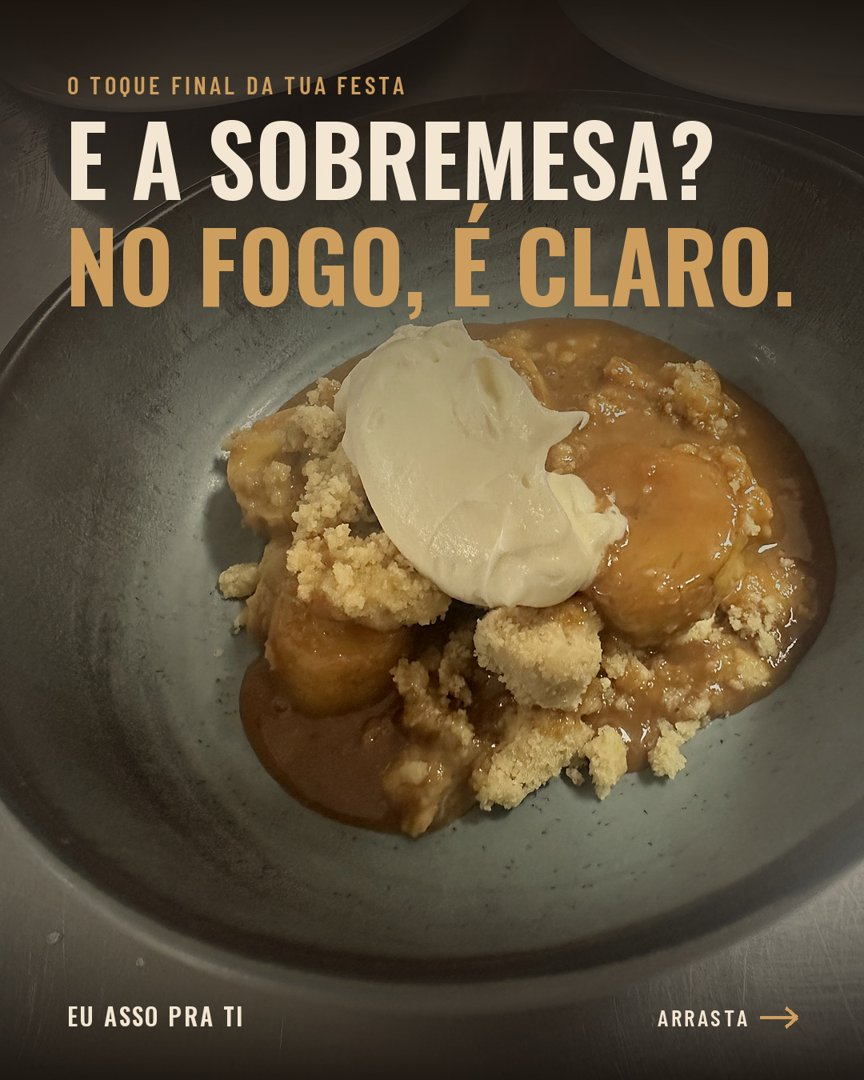
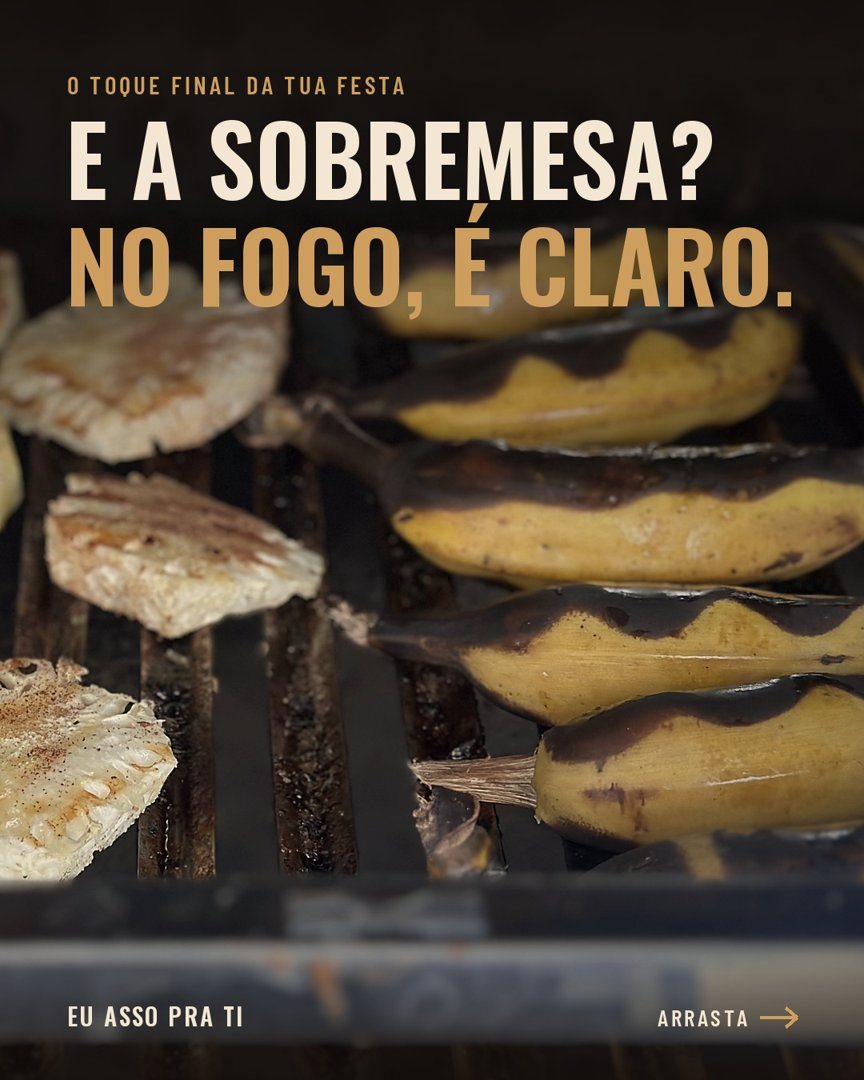
Post 08: capa com a fruta na brasa

diff --git a/calendario/index.html b/calendario/index.html
@@ -11,7 +11,7 @@
 --display:"Oswald","Arial Narrow",sans-serif;--label:"Barlow Condensed","Arial Narrow",sans-serif;--text:"Barlow",system-ui,sans-serif;color-scheme:dark}
 *{box-sizing:border-box}
 body{margin:0;background:var(--bg);color:var(--body);font:400 1.0625rem/1.6 var(--text)}
-.hero{position:relative;min-height:min(78vh,620px);display:grid;align-items:end;background:#000 url(img/p7-01.jpg?v=1792528618) center 45%/cover}
+.hero{position:relative;min-height:min(78vh,620px);display:grid;align-items:end;background:#000 url(img/p7-01.jpg?v=1792529153) center 45%/cover}
 .hero::after{content:"";position:absolute;inset:0;background:linear-gradient(180deg,rgba(21,15,11,.2) 0%,rgba(21,15,11,.55) 45%,var(--bg) 100%)}
 .hero .in{position:relative;z-index:1;max-width:760px;margin:0 auto;width:100%;padding:0 20px 36px}
 h1,h2{font-family:var(--display);font-weight:600;text-transform:uppercase;color:var(--fg);line-height:1.05;margin:0;text-wrap:balance}
@@ -88,13 +88,13 @@ footer{font:500 .9rem var(--label);color:var(--muted);letter-spacing:.06em;borde
   <h2>Post 7: sal antes ou sal depois?</h2>
   <p>Refeito com a tua explicação. Capa com o costelão assado, o fogo da tua churrasqueira, o teu vídeo salgando com sal grosso no time sal antes, e todos os cards na mesma cor quente e premium. Depois: a reação de Maillard, quando salgar antes, quando salgar depois, como tu faz e por que não salgar o corte nobre antes. Fecha com o teu time: depende do corte.</p>
   <div class="car" aria-label="Imagens do post 7">
-    <img src="img/p7-01.jpg?v=1792528618" alt="Capa: Sal antes ou sal depois?" loading="lazy">
-    <img src="img/p7-02.jpg?v=1792528618" alt="A crostinha faz a diferença" loading="lazy">
-    <video src="video/p7-sal.mp4?v=1792528618" autoplay muted loop playsinline style="width:min(78%,330px);flex:none;scroll-snap-align:start;border-radius:8px;aspect-ratio:4/5;object-fit:cover;box-shadow:0 10px 30px rgba(0,0,0,.4)"></video>
-    <img src="img/p7-04.jpg?v=1792528618" alt="Time sal depois" loading="lazy">
-    <img src="img/p7-05.jpg?v=1792528618" alt="Descansa, fatia, salga" loading="lazy">
-    <img src="img/p7-06.jpg?v=1792528618" alt="Sal cedo tira o sabor" loading="lazy">
-    <img src="img/p7-07.jpg?v=1792528618" alt="E eu? Depende do corte" loading="lazy">
+    <img src="img/p7-01.jpg?v=1792529153" alt="Capa: Sal antes ou sal depois?" loading="lazy">
+    <img src="img/p7-02.jpg?v=1792529153" alt="A crostinha faz a diferença" loading="lazy">
+    <video src="video/p7-sal.mp4?v=1792529153" autoplay muted loop playsinline style="width:min(78%,330px);flex:none;scroll-snap-align:start;border-radius:8px;aspect-ratio:4/5;object-fit:cover;box-shadow:0 10px 30px rgba(0,0,0,.4)"></video>
+    <img src="img/p7-04.jpg?v=1792529153" alt="Time sal depois" loading="lazy">
+    <img src="img/p7-05.jpg?v=1792529153" alt="Descansa, fatia, salga" loading="lazy">
+    <img src="img/p7-06.jpg?v=1792529153" alt="Sal cedo tira o sabor" loading="lazy">
+    <img src="img/p7-07.jpg?v=1792529153" alt="E eu? Depende do corte" loading="lazy">
   </div>
   <p class="hint">Arrasta para o lado: 6 imagens e o vídeo do sal grosso.</p>
   <details><summary>Ver a legenda</summary><div class="cap">Sal antes ou sal depois? 🧂🔥
@@ -124,14 +124,14 @@ Agora me conta aqui nos comentários: tu é de qual time? 👇
 <section>
   <div class="post-head"><p class="k" style="margin:0">Quinta 22/10 · 21h</p><span class="tag on">Para tua revisão</span></div>
   <h2>Post 8: sobremesas no fogo</h2>
-  <p>Montado com as tuas fotos, na pegada de restaurante: a banana com doce de leite, crumble e creme na capa, a fruta pegando a marca da brasa, o teu vídeo ralando limão na banana empratada, a banana assada com doce de leite e crocante, o Martín Fierro e o fecho com o fogo da churrasqueira.</p>
+  <p>Montado com as tuas fotos, na pegada de restaurante: abacaxi e banana caramelizando na grelha na capa, a banana com doce de leite, crumble e creme, o teu vídeo ralando limão na banana empratada, a banana assada com doce de leite e crocante, o Martín Fierro e o fecho com o fogo da churrasqueira.</p>
   <div class="car" aria-label="Imagens do post 8">
-    <img src="img/p8-01.jpg?v=1792528618" alt="Capa: E a sobremesa? No fogo, é claro." loading="lazy">
-    <img src="img/p8-02.jpg?v=1792528618" alt="A fruta vai pro fogo" loading="lazy">
-    <video src="video/p8-sobremesa.mp4?v=1792528618" autoplay muted loop playsinline style="width:min(78%,330px);flex:none;scroll-snap-align:start;border-radius:8px;aspect-ratio:4/5;object-fit:cover;box-shadow:0 10px 30px rgba(0,0,0,.4)"></video>
-    <img src="img/p8-04.jpg?v=1792528618" alt="Doce de leite e crocante" loading="lazy">
-    <img src="img/p8-05.jpg?v=1792528618" alt="Martín Fierro" loading="lazy">
-    <img src="img/p8-06.jpg?v=1792528618" alt="Gostinho de quero mais" loading="lazy">
+    <img src="img/p8-01.jpg?v=1792529153" alt="Capa: E a sobremesa? No fogo, é claro." loading="lazy">
+    <img src="img/p8-02.jpg?v=1792529153" alt="A fruta vai pro fogo" loading="lazy">
+    <video src="video/p8-sobremesa.mp4?v=1792529153" autoplay muted loop playsinline style="width:min(78%,330px);flex:none;scroll-snap-align:start;border-radius:8px;aspect-ratio:4/5;object-fit:cover;box-shadow:0 10px 30px rgba(0,0,0,.4)"></video>
+    <img src="img/p8-04.jpg?v=1792529153" alt="Doce de leite e crocante" loading="lazy">
+    <img src="img/p8-05.jpg?v=1792529153" alt="Martín Fierro" loading="lazy">
+    <img src="img/p8-06.jpg?v=1792529153" alt="Gostinho de quero mais" loading="lazy">
   </div>
   <p class="hint">Arrasta para o lado: 5 imagens e o vídeo da banana empratada.</p>
   <details><summary>Ver a legenda</summary><div class="cap">E a sobremesa? No fogo, é claro 🔥
@@ -157,11 +157,11 @@ Me chama no WhatsApp pelo link da bio ou no (51) 99565-7817 e me conta como tu i
   <h2>Post 9: antes da tua festa começar</h2>
   <p>O bastidor premium: os cortes separados pro cardápio, o cronograma, o serviço na mesa. Mostra o cuidado que o cliente não vê.</p>
   <div class="car" aria-label="Imagens do post 9">
-    <img src="img/p9-01.jpg?v=1792528618" alt="Capa: Antes da tua festa começar" loading="lazy">
-    <img src="img/p9-02.jpg?v=1792528618" alt="Cada corte separado pra ti" loading="lazy">
-    <img src="img/p9-03.jpg?v=1792528618" alt="O cronograma manda" loading="lazy">
-    <img src="img/p9-04.jpg?v=1792528618" alt="Servido pra galera" loading="lazy">
-    <img src="img/p9-05.jpg?v=1792528618" alt="Me conta a tua" loading="lazy">
+    <img src="img/p9-01.jpg?v=1792529153" alt="Capa: Antes da tua festa começar" loading="lazy">
+    <img src="img/p9-02.jpg?v=1792529153" alt="Cada corte separado pra ti" loading="lazy">
+    <img src="img/p9-03.jpg?v=1792529153" alt="O cronograma manda" loading="lazy">
+    <img src="img/p9-04.jpg?v=1792529153" alt="Servido pra galera" loading="lazy">
+    <img src="img/p9-05.jpg?v=1792529153" alt="Me conta a tua" loading="lazy">
   </div>
   <p class="hint">Arrasta para o lado para ver as 5 imagens.</p>
   <details><summary>Ver a legenda</summary><div class="cap">Antes da tua festa começar, já tem muita coisa acontecendo 🔥

diff --git a/semana/index.html b/semana/index.html
@@ -11,7 +11,7 @@
 --display:"Oswald","Arial Narrow",sans-serif;--label:"Barlow Condensed","Arial Narrow",sans-serif;--text:"Barlow",system-ui,sans-serif;color-scheme:dark}
 *{box-sizing:border-box}
 body{margin:0;background:var(--bg);color:var(--body);font:400 1.0625rem/1.6 var(--text)}
-.hero{position:relative;min-height:min(78vh,620px);display:grid;align-items:end;background:#000 url(img/p5-02.jpg?v=1792528618) center 40%/cover}
+.hero{position:relative;min-height:min(78vh,620px);display:grid;align-items:end;background:#000 url(img/p5-02.jpg?v=1792529153) center 40%/cover}
 .hero::after{content:"";position:absolute;inset:0;background:linear-gradient(180deg,rgba(21,15,11,.2) 0%,rgba(21,15,11,.55) 45%,var(--bg) 100%)}
 .hero .in{position:relative;z-index:1;max-width:760px;margin:0 auto;width:100%;padding:0 20px 36px}
 h1,h2{font-family:var(--display);font-weight:600;text-transform:uppercase;color:var(--fg);line-height:1.05;margin:0;text-wrap:balance}
@@ -81,13 +81,13 @@ footer{font:500 .9rem var(--label);color:var(--muted);letter-spacing:.06em;borde
   <h2>Post 5: gastronomia de fogo</h2>
   <p>Carrossel de 7 imagens: a carne de qualidade, cada uma no seu ponto, os legumes, o fatiado na hora, a sobremesa no fogo e o convite pra conversar.</p>
   <div class="car" aria-label="Imagens do post 5">
-    <img src="img/p5-01.jpg?v=1792528618" alt="Capa: Gastronomia de fogo" loading="lazy">
-    <img src="img/p5-02.jpg?v=1792528618" alt="Carne de qualidade" loading="lazy">
-    <img src="img/p5-03.jpg?v=1792528618" alt="Cada carne no seu ponto" loading="lazy">
-    <img src="img/p5-04.jpg?v=1792528618" alt="Os legumes também vão pro fogo" loading="lazy">
-    <img src="img/p5-05.jpg?v=1792528618" alt="Fatiado na hora" loading="lazy">
-    <img src="img/p5-06.jpg?v=1792528618" alt="E a sobremesa? No fogo, é claro" loading="lazy">
-    <img src="img/p5-07.jpg?v=1792528618" alt="Tem festa vindo aí?" loading="lazy">
+    <img src="img/p5-01.jpg?v=1792529153" alt="Capa: Gastronomia de fogo" loading="lazy">
+    <img src="img/p5-02.jpg?v=1792529153" alt="Carne de qualidade" loading="lazy">
+    <img src="img/p5-03.jpg?v=1792529153" alt="Cada carne no seu ponto" loading="lazy">
+    <img src="img/p5-04.jpg?v=1792529153" alt="Os legumes também vão pro fogo" loading="lazy">
+    <img src="img/p5-05.jpg?v=1792529153" alt="Fatiado na hora" loading="lazy">
+    <img src="img/p5-06.jpg?v=1792529153" alt="E a sobremesa? No fogo, é claro" loading="lazy">
+    <img src="img/p5-07.jpg?v=1792529153" alt="Tem festa vindo aí?" loading="lazy">
   </div>
   <p class="hint">Arrasta para o lado para ver as 7 imagens.</p>
   <details><summary>Ver a legenda</summary><div class="cap">Gastronomia de fogo 🔥 Eu cuido do fogo, tu aproveita a festa.
@@ -114,12 +114,12 @@ Me chama no WhatsApp pelo link da bio ou no (51) 99565-7817 e me conta como tu i
   <h2>Post 6: a tua festa, do teu jeito</h2>
   <p>Aqui não tem cardápio pronto: aniversário em casa, confraternização, casamento e formatura, cada um com o seu jeito. Fecha com "me conta a tua festa".</p>
   <div class="car" aria-label="Imagens do post 6">
-    <img src="img/p6-01.jpg?v=1792528618" alt="Capa: A tua festa, do teu jeito" loading="lazy">
-    <img src="img/p6-02.jpg?v=1792528618" alt="Pra família e os amigos" loading="lazy">
-    <img src="img/p6-03.jpg?v=1792528618" alt="Pra galera da empresa" loading="lazy">
-    <img src="img/p6-04.jpg?v=1792528618" alt="Pro dia que não volta" loading="lazy">
-    <img src="img/p6-05.jpg?v=1792528618" alt="Nada de cardápio pronto" loading="lazy">
-    <img src="img/p6-06.jpg?v=1792528618" alt="Me conta a tua festa" loading="lazy">
+    <img src="img/p6-01.jpg?v=1792529153" alt="Capa: A tua festa, do teu jeito" loading="lazy">
+    <img src="img/p6-02.jpg?v=1792529153" alt="Pra família e os amigos" loading="lazy">
+    <img src="img/p6-03.jpg?v=1792529153" alt="Pra galera da empresa" loading="lazy">
+    <img src="img/p6-04.jpg?v=1792529153" alt="Pro dia que não volta" loading="lazy">
+    <img src="img/p6-05.jpg?v=1792529153" alt="Nada de cardápio pronto" loading="lazy">
+    <img src="img/p6-06.jpg?v=1792529153" alt="Me conta a tua festa" loading="lazy">
   </div>
   <p class="hint">Arrasta para o lado para ver as 6 imagens.</p>
   <details><summary>Ver a legenda</summary><div class="cap">A tua festa, do teu jeito 🔥
@@ -144,7 +144,7 @@ Me chama no WhatsApp pelo link da bio ou no (51) 99565-7817 e me conta a tua fes
 <section>
   <div class="post-head"><p class="k" style="margin:0">Terça 13/10</p><span class="tag done">No ar</span></div>
   <h2>Post 4: o primeiro Reels</h2>
-  <video class="vid" src="video/p4-reels.mp4?v=1792528618" controls playsinline preload="metadata"></video>
+  <video class="vid" src="video/p4-reels.mp4?v=1792529153" controls playsinline preload="metadata"></video>
   <details><summary>Ver a legenda</summary><div class="cap">Quando tu chega, o fogo já tá pronto 🔥
 
 Eu chego bem antes pra preparar tudo: a carne de qualidade separada pra tua festa, o fogo no ponto certinho e tudo saindo da brasa direto pra tábua, servido quentinho pra galera.
